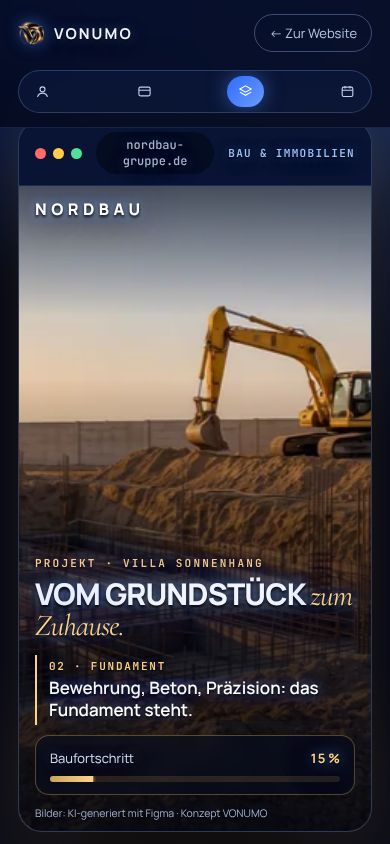
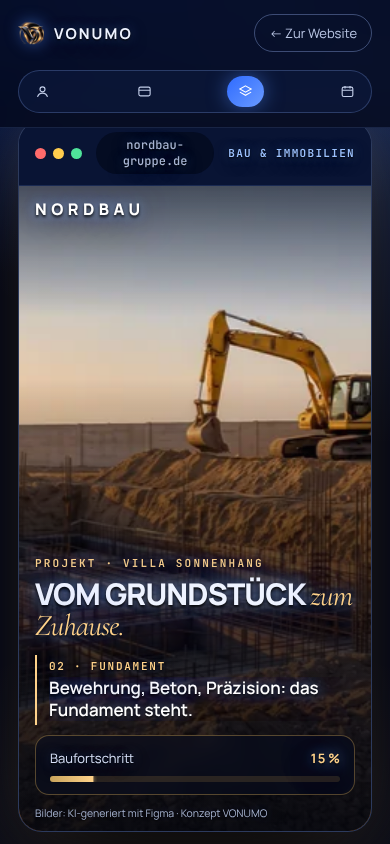
Showroom-Baustelle: weicher und exakter – zeitbasierte Dämpfung, S-Kurven-Überblendung, eigener Kamera-Zoom pro Phase, Bilder vorab dekodiert
Claude-Session: https://claude.ai/code/session_01Nygah7FJ67MANp8owc1mQM

diff --git a/showroom.html b/showroom.html
@@ -11,7 +11,7 @@
 <link rel="preload" as="font" type="font/woff" href="/assets/fonts/manrope.woff" crossorigin>
 <script type="importmap">{"imports":{"three":"/assets/vendor/three.module.min.js"}}</script>
 <link rel="modulepreload" href="/assets/vendor/three.module.min.js">
-<link rel="stylesheet" href="/assets/pages.css?v=202611031205">
+<link rel="stylesheet" href="/assets/pages.css?v=202611031207">
 </head>
 <body data-page="showroom">
 <header class="pg-top">
@@ -60,12 +60,12 @@
       <div class="dm-bar"><span class="dm-dots"><i></i><i></i><i></i></span><span class="dm-url">nordbau-gruppe.de</span><span class="dm-tag">Bau &amp; Immobilien</span></div>
       <div class="dm-body bs-body">
         <div class="bs-stage">
-          <img class="bs-shot" src="/assets/media/bau/bau-1.webp?v=202611031205" srcset="/assets/media/bau/bau-1-s.webp?v=202611031205 800w, /assets/media/bau/bau-1.webp?v=202611031205 1920w" sizes="(max-width:820px) 100vw, 1200px" width="1920" height="1072" alt="Bauphase 1: Grundstück" decoding="async">
-          <img class="bs-shot" src="/assets/media/bau/bau-2.webp?v=202611031205" srcset="/assets/media/bau/bau-2-s.webp?v=202611031205 800w, /assets/media/bau/bau-2.webp?v=202611031205 1920w" sizes="(max-width:820px) 100vw, 1200px" width="1920" height="1072" alt="Bauphase 2: Fundament" decoding="async">
-          <img class="bs-shot" src="/assets/media/bau/bau-3.webp?v=202611031205" srcset="/assets/media/bau/bau-3-s.webp?v=202611031205 600w, /assets/media/bau/bau-3.webp?v=202611031205 1200w" sizes="(max-width:820px) 100vw, 1200px" width="1200" height="1011" alt="Bauphase 3: Rohbau" decoding="async">
-          <img class="bs-shot" src="/assets/media/bau/bau-4.webp?v=202611031205" srcset="/assets/media/bau/bau-4-s.webp?v=202611031205 600w, /assets/media/bau/bau-4.webp?v=202611031205 1200w" sizes="(max-width:820px) 100vw, 1200px" width="1200" height="1011" alt="Bauphase 4: Obergeschoss" decoding="async">
-          <img class="bs-shot" src="/assets/media/bau/bau-5.webp?v=202611031205" srcset="/assets/media/bau/bau-5-s.webp?v=202611031205 600w, /assets/media/bau/bau-5.webp?v=202611031205 1200w" sizes="(max-width:820px) 100vw, 1200px" width="1200" height="1011" alt="Bauphase 5: Fassade" decoding="async">
-          <img class="bs-shot" src="/assets/media/bau/bau-6.webp?v=202611031205" srcset="/assets/media/bau/bau-6-s.webp?v=202611031205 600w, /assets/media/bau/bau-6.webp?v=202611031205 1200w" sizes="(max-width:820px) 100vw, 1200px" width="1200" height="1011" alt="Bauphase 6: Übergabe" decoding="async">
+          <img class="bs-shot" src="/assets/media/bau/bau-1.webp?v=202611031207" srcset="/assets/media/bau/bau-1-s.webp?v=202611031205 800w, /assets/media/bau/bau-1.webp?v=202611031205 1920w" sizes="(max-width:820px) 100vw, 1200px" width="1920" height="1072" alt="Bauphase 1: Grundstück" decoding="async">
+          <img class="bs-shot" src="/assets/media/bau/bau-2.webp?v=202611031207" srcset="/assets/media/bau/bau-2-s.webp?v=202611031205 800w, /assets/media/bau/bau-2.webp?v=202611031205 1920w" sizes="(max-width:820px) 100vw, 1200px" width="1920" height="1072" alt="Bauphase 2: Fundament" decoding="async">
+          <img class="bs-shot" src="/assets/media/bau/bau-3.webp?v=202611031207" srcset="/assets/media/bau/bau-3-s.webp?v=202611031205 600w, /assets/media/bau/bau-3.webp?v=202611031205 1200w" sizes="(max-width:820px) 100vw, 1200px" width="1200" height="1011" alt="Bauphase 3: Rohbau" decoding="async">
+          <img class="bs-shot" src="/assets/media/bau/bau-4.webp?v=202611031207" srcset="/assets/media/bau/bau-4-s.webp?v=202611031205 600w, /assets/media/bau/bau-4.webp?v=202611031205 1200w" sizes="(max-width:820px) 100vw, 1200px" width="1200" height="1011" alt="Bauphase 4: Obergeschoss" decoding="async">
+          <img class="bs-shot" src="/assets/media/bau/bau-5.webp?v=202611031207" srcset="/assets/media/bau/bau-5-s.webp?v=202611031205 600w, /assets/media/bau/bau-5.webp?v=202611031205 1200w" sizes="(max-width:820px) 100vw, 1200px" width="1200" height="1011" alt="Bauphase 5: Fassade" decoding="async">
+          <img class="bs-shot" src="/assets/media/bau/bau-6.webp?v=202611031207" srcset="/assets/media/bau/bau-6-s.webp?v=202611031205 600w, /assets/media/bau/bau-6.webp?v=202611031205 1200w" sizes="(max-width:820px) 100vw, 1200px" width="1200" height="1011" alt="Bauphase 6: Übergabe" decoding="async">
         </div>
         <nav class="dm-nav" aria-hidden="true"><b>NORDBAU</b><span>Projekte</span><span>Leistungen</span><span>Karriere</span></nav>
         <div class="bs-copy">
@@ -116,9 +116,9 @@
 </main>
 <footer class="pg-foot"><span>© 2026 VONUMO · Web, Design und KI aus Deutschland</span><span><a href="mailto:almoakedmohammad@gmail.com">almoakedmohammad@gmail.com</a> · <a href="/impressum">Impressum</a> · <a href="/datenschutz">Datenschutz</a></span></footer>
 <script src="/assets/vendor/motion.min.js" defer></script>
-<script type="module" src="/assets/showcase.js?v=202611031205"></script>
-<script src="/assets/reveal.js?v=202611031205" defer></script>
-<script src="/assets/bau-scroll.js?v=202611031205" defer></script>
-<script src="/assets/pages.js?v=202611031205" defer></script>
+<script type="module" src="/assets/showcase.js?v=202611031207"></script>
+<script src="/assets/reveal.js?v=202611031207" defer></script>
+<script src="/assets/bau-scroll.js?v=202611031207" defer></script>
+<script src="/assets/pages.js?v=202611031207" defer></script>
 </body>
 </html>

diff --git a/assets/bau-scroll.js b/assets/bau-scroll.js
@@ -1,18 +1,49 @@
-/* VONUMO Showroom – Baustelle wächst beim Scrollen: 6 Fotos derselben Perspektive werden überblendet */
+/* VONUMO Showroom – Baustelle wächst beim Scrollen: 6 Fotos derselben Perspektive, weich und exakt an den Scroll gekoppelt */
 (function () {
   'use strict';
   var D = document, W = window, pin = D.getElementById('bauPin'); if (!pin) return;
-  var shots = pin.querySelectorAll('.bs-shot'), N = shots.length, steps = pin.querySelectorAll('.bs-step'), bar = pin.querySelector('.bs-bar i'), pct = pin.querySelector('.bs-pct');
-  var reduce = W.matchMedia && W.matchMedia('(prefers-reduced-motion: reduce)').matches, P = 0, run = false, cur = -1;
-  function prog() { var r = pin.getBoundingClientRect(), span = Math.max(1, r.height - W.innerHeight); return Math.min(1, Math.max(0, -r.top / span)); }
-  function frame() {
-    var want = prog(); P += (want - P) * (reduce ? 1 : 0.3);
+  var shots = Array.prototype.slice.call(pin.querySelectorAll('.bs-shot')), N = shots.length;
+  var steps = pin.querySelectorAll('.bs-step'), bar = pin.querySelector('.bs-bar i'), pct = pin.querySelector('.bs-pct');
+  var reduce = W.matchMedia && W.matchMedia('(prefers-reduced-motion: reduce)').matches;
+  var P = 0, want = 0, run = false, cur = -1, last = 0, top = 0, span = 1, lastPct = -1;
+  var op = shots.map(function () { return -1; });
+
+  /* alle Bilder vorab dekodieren – kein Aufblitzen beim ersten Wechsel */
+  shots.forEach(function (im) { im.loading = 'eager'; if (im.decode) im.decode().catch(function () {}); });
+
+  function measure() { var r = pin.getBoundingClientRect(); top = r.top + W.scrollY; span = Math.max(1, pin.offsetHeight - W.innerHeight); }
+  function target() { return Math.min(1, Math.max(0, (W.scrollY - top) / span)); }
+  function smooth(x) { x = Math.min(1, Math.max(0, x)); return x * x * x * (x * (x * 6 - 15) + 10); } /* smootherstep */
+
+  function render() {
     var f = P * (N - 1);
-    for (var i = 0; i < N; i++) { var o = Math.max(0, 1 - Math.abs(f - i)); shots[i].style.opacity = i === 0 ? 1 : Math.min(1, Math.max(0, (f - (i - 1) - 0.3) / 0.4)).toFixed(3); shots[i].style.transform = 'scale(' + (1.06 - P * 0.06).toFixed(4) + ')'; void o; }
-    var s = Math.min(N - 1, Math.round(f)); if (s !== cur) { cur = s; Array.prototype.forEach.call(steps, function (e, k) { e.classList.toggle('on', k === s); e.classList.toggle('done', k < s); }); }
-    bar.style.transform = 'scaleX(' + P.toFixed(3) + ')'; pct.textContent = Math.round(P * 100) + ' %';
-    if (Math.abs(want - P) > 0.0008) requestAnimationFrame(frame); else run = false;
+    for (var i = 0; i < N; i++) {
+      /* Bild i blendet im mittleren Teil seines Abschnitts ein (weiche S-Kurve) */
+      var o = i === 0 ? 1 : smooth((f - (i - 1) - 0.25) / 0.5);
+      if (Math.abs(o - op[i]) > 0.002) { shots[i].style.opacity = o.toFixed(3); op[i] = o; }
+      /* jede Phase hat ihren eigenen sanften Kamera-Zoom */
+      var local = Math.min(1, Math.max(0, f - i + 1)) ;
+      shots[i].style.transform = 'translate3d(0,0,0) scale(' + (1.08 - local * 0.06).toFixed(4) + ')';
+    }
+    var s = Math.min(N - 1, Math.max(0, Math.round(f)));
+    if (s !== cur) { cur = s; Array.prototype.forEach.call(steps, function (e, k) { e.classList.toggle('on', k === s); e.classList.toggle('done', k < s); }); }
+    bar.style.transform = 'scaleX(' + P.toFixed(4) + ')';
+    var n = Math.round(P * 100); if (n !== lastPct) { pct.textContent = n + ' %'; lastPct = n; }
+  }
+
+  function frame(t) {
+    var dt = Math.min(64, t - (last || t)); last = t;
+    want = target();
+    /* zeitbasierte Dämpfung: gleich weich bei 60 und 120 Hz */
+    P = reduce ? want : P + (want - P) * (1 - Math.exp(-dt / 70));
+    if (Math.abs(want - P) < 0.0005) P = want;
+    render();
+    if (P !== want) requestAnimationFrame(frame); else { run = false; last = 0; }
   }
   function kick() { if (!run) { run = true; requestAnimationFrame(frame); } }
-  W.addEventListener('scroll', kick, { passive: true }); W.addEventListener('resize', kick); kick();
+
+  W.addEventListener('scroll', kick, { passive: true });
+  W.addEventListener('resize', function () { measure(); kick(); });
+  W.addEventListener('load', function () { measure(); kick(); });
+  measure(); P = want = target(); render();
 })();

diff --git a/assets/pages.css b/assets/pages.css
@@ -272,7 +272,7 @@ input,select,textarea,.pr-save,.pl-badge{text-shadow:none}
 .rv-stage{position:absolute;inset:0;overflow:hidden;isolation:isolate}
 .rv-shot{position:absolute;inset:-4%;width:108%;height:108%;object-fit:cover;object-position:50% 50%;opacity:0;will-change:transform,opacity,filter;transform-origin:50% 60%}
 .rv-shot:first-child{opacity:1}
-.rv-glow{position:absolute;border-radius:50%;pointer-events:none;mix-blend-mode:screen;opacity:0;will-change:opacity,transform}
+.rv-glow{position:absolute;border-radius:50%;pointer-events:none;mix-blend-mode:screen;opacity:0;will-change:opacity,transform;backface-visibility:hidden}
 .rv-glow.hl1,.rv-glow.hl2{width:22%;height:16%;background:radial-gradient(closest-side,rgba(235,245,255,.95),rgba(150,190,255,.35) 45%,transparent)}
 .rv-glow.hl1{left:30%;top:52%}.rv-glow.hl2{left:79%;top:46%;width:16%;height:12%}
 .rv-glow.tl1,.rv-glow.tl2{width:20%;height:12%;background:radial-gradient(closest-side,rgba(255,60,40,.95),rgba(255,30,30,.3) 50%,transparent)}
@@ -365,9 +365,9 @@ input,select,textarea,.pr-save,.pl-badge{text-shadow:none}
 /* Baustelle: Foto-Scroll-Story (vom Grundstück zur Villa) */
 .pin.bs{height:300vh;margin-top:34px}
 .bs-body{overflow:hidden;background:#05070d}
-.bs-stage{position:absolute;inset:0}
+.bs-stage{position:absolute;inset:0;contain:paint}
 .bs-stage::after{content:"";position:absolute;inset:0;pointer-events:none;background:linear-gradient(90deg,rgba(3,6,14,.88) 0%,rgba(3,6,14,.55) 32%,rgba(3,6,14,0) 58%),linear-gradient(0deg,rgba(3,6,14,.6),transparent 30%),linear-gradient(180deg,rgba(3,6,14,.55),transparent 22%)}
-.bs-shot{position:absolute;inset:0;width:100%;height:100%;object-fit:cover;object-position:62% 60%;opacity:0;transform-origin:62% 60%;will-change:opacity,transform}
+.bs-shot{position:absolute;inset:0;width:100%;height:100%;object-fit:cover;object-position:62% 60%;opacity:0;transform-origin:62% 60%;will-change:opacity,transform;backface-visibility:hidden}
 .bs-shot:first-child{opacity:1}
 .bs-copy{position:absolute;left:clamp(20px,4vw,48px);top:50%;transform:translateY(-50%);width:min(400px,42%);display:flex;flex-direction:column;gap:14px;z-index:2}
 .bs-copy h3{margin:0;font:800 clamp(34px,4.4vw,60px)/.95 var(--sans);letter-spacing:-.03em;text-transform:uppercase}

diff --git a/index.html b/index.html
@@ -14,7 +14,7 @@
 <link rel="preload" as="font" type="font/woff" href="/assets/fonts/manrope.woff" crossorigin>
 <link rel="preload" as="font" type="font/woff" href="/assets/fonts/jetbrainsmono.woff" crossorigin>
 <link rel="modulepreload" href="/assets/vendor/three.module.min.js">
-<link rel="stylesheet" href="/assets/site.css?v=202611031205">
+<link rel="stylesheet" href="/assets/site.css?v=202611031207">
 </head>
 <body>
 
@@ -285,10 +285,10 @@
 
 <noscript><style>.ld{display:none}.rv{opacity:1 !important;transform:none !important}</style></noscript>
 <script src="/assets/vendor/motion.min.js" defer></script>
-  <script src="/assets/studio.js?v=202611031205" defer></script>
-  <script src="/assets/term.js?v=202611031205" defer></script>
-  <script src="/assets/code.js?v=202611031205" defer></script>
-  <script src="/assets/fx.js?v=202611031205" defer></script>
-<script type="module" src="/assets/story.js?v=202611031205"></script>
+  <script src="/assets/studio.js?v=202611031207" defer></script>
+  <script src="/assets/term.js?v=202611031207" defer></script>
+  <script src="/assets/code.js?v=202611031207" defer></script>
+  <script src="/assets/fx.js?v=202611031207" defer></script>
+<script type="module" src="/assets/story.js?v=202611031207"></script>
 </body>
 </html>

diff --git a/abos.html b/abos.html
@@ -9,7 +9,7 @@
 <meta name="description" content="Website-Abos von VONUMO: Basic, Business und Premium – inklusive Hosting und Wartung, 20 % Rabatt bei jährlicher Zahlung.">
 <link rel="icon" type="image/webp" href="/assets/6925aa020ce5116c12186e64c389ccd4.webp">
 <link rel="preload" as="font" type="font/woff" href="/assets/fonts/manrope.woff" crossorigin>
-<link rel="stylesheet" href="/assets/pages.css?v=202611031205">
+<link rel="stylesheet" href="/assets/pages.css?v=202611031207">
 </head>
 <body data-page="abos">
 <header class="pg-top">
@@ -108,6 +108,6 @@
 </main>
 <footer class="pg-foot"><span>© 2026 VONUMO · Web, Design und KI aus Deutschland</span><span><a href="mailto:almoakedmohammad@gmail.com">almoakedmohammad@gmail.com</a> · <a href="/impressum">Impressum</a> · <a href="/datenschutz">Datenschutz</a></span></footer>
 <script src="/assets/vendor/motion.min.js" defer></script>
-<script src="/assets/pages.js?v=202611031205" defer></script>
+<script src="/assets/pages.js?v=202611031207" defer></script>
 </body>
 </html>

diff --git a/termin.html b/termin.html
@@ -9,7 +9,7 @@
 <meta name="description" content="Kostenloses Beratungsgespräch für Ihre neue Website buchen – 30 Minuten per Video oder Telefon.">
 <link rel="icon" type="image/webp" href="/assets/6925aa020ce5116c12186e64c389ccd4.webp">
 <link rel="preload" as="font" type="font/woff" href="/assets/fonts/manrope.woff" crossorigin>
-<link rel="stylesheet" href="/assets/pages.css?v=202611031205">
+<link rel="stylesheet" href="/assets/pages.css?v=202611031207">
 </head>
 <body data-page="termin">
 <header class="pg-top">
@@ -59,6 +59,6 @@
 </main>
 <footer class="pg-foot"><span>© 2026 VONUMO · Web, Design und KI aus Deutschland</span><span><a href="mailto:almoakedmohammad@gmail.com">almoakedmohammad@gmail.com</a> · <a href="/impressum">Impressum</a> · <a href="/datenschutz">Datenschutz</a></span></footer>
 <script src="/assets/vendor/motion.min.js" defer></script>
-<script src="/assets/pages.js?v=202611031205" defer></script>
+<script src="/assets/pages.js?v=202611031207" defer></script>
 </body>
 </html>

diff --git a/konto.html b/konto.html
@@ -9,8 +9,8 @@
 <title>Mein Konto – VONUMO</title>
 <link rel="icon" type="image/webp" href="/assets/6925aa020ce5116c12186e64c389ccd4.webp">
 <link rel="preload" as="font" type="font/woff" href="/assets/fonts/manrope.woff" crossorigin>
-<link rel="stylesheet" href="/assets/auth.css?v=202611031205">
-<script src="/assets/auth-common.js?v=202611031205" defer></script>
+<link rel="stylesheet" href="/assets/auth.css?v=202611031207">
+<script src="/assets/auth-common.js?v=202611031207" defer></script>
 </head>
 <body>
 <div class="aura" aria-hidden="true"><span class="strand"></span><span class="strand"></span><span class="strand"></span></div>

diff --git a/anmelden.html b/anmelden.html
@@ -9,8 +9,8 @@
 <title>Anmelden – VONUMO</title>
 <link rel="icon" type="image/webp" href="/assets/6925aa020ce5116c12186e64c389ccd4.webp">
 <link rel="preload" as="font" type="font/woff" href="/assets/fonts/manrope.woff" crossorigin>
-<link rel="stylesheet" href="/assets/auth.css?v=202611031205">
-<script src="/assets/auth-common.js?v=202611031205" defer></script>
+<link rel="stylesheet" href="/assets/auth.css?v=202611031207">
+<script src="/assets/auth-common.js?v=202611031207" defer></script>
 </head>
 <body>
 <div class="aura" aria-hidden="true"><span class="strand"></span><span class="strand"></span><span class="strand"></span></div>

diff --git a/datenschutz.html b/datenschutz.html
@@ -6,7 +6,7 @@
 <title>Datenschutzerklärung – VONUMO</title>
 <meta name="robots" content="index,follow">
 <link rel="icon" type="image/webp" href="/assets/6925aa020ce5116c12186e64c389ccd4.webp">
-<link rel="stylesheet" href="/assets/legal.css?v=202611031205">
+<link rel="stylesheet" href="/assets/legal.css?v=202611031207">
 </head>
 <body>
 <header><a href="/" class="back">← Zur Startseite</a><a href="/" class="brand"><img src="/assets/6925aa020ce5116c12186e64c389ccd4.webp" alt="" width="28" height="28">VONUMO</a></header>

diff --git a/impressum.html b/impressum.html
@@ -6,7 +6,7 @@
 <title>Impressum – VONUMO</title>
 <meta name="robots" content="index,follow">
 <link rel="icon" type="image/webp" href="/assets/6925aa020ce5116c12186e64c389ccd4.webp">
-<link rel="stylesheet" href="/assets/legal.css?v=202611031205">
+<link rel="stylesheet" href="/assets/legal.css?v=202611031207">
 </head>
 <body>
 <header><a href="/" class="back">← Zur Startseite</a><a href="/" class="brand"><img src="/assets/6925aa020ce5116c12186e64c389ccd4.webp" alt="" width="28" height="28">VONUMO</a></header>
